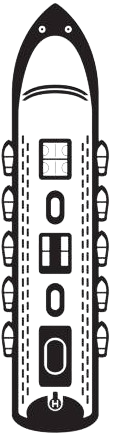
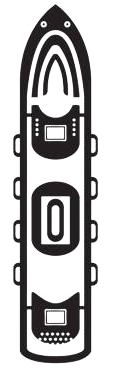
La till fler båtar

diff --git a/MainWindow.xaml.cs b/MainWindow.xaml.cs
@@ -37,7 +37,7 @@ namespace Battleships_WPF
 
         public static List<Coordinates> TakenCoordinates= new List<Coordinates>();
         public static List<Image> Images = new List<Image>();
-        public static string[] boatLibrary = new string[] { "BigBoat", "MediumBoat", "LittleBoat" };
+        public static string[] boatLibrary = new string[] { "HugeBoat", "BigBoat", "MediumBoat1", "MediumBoat2", "LittleBoat" };
         public static List<BoatTemplate> boatTemplates = new List<Classes.BoatTemplate>();
 
         //Preview Window variables
@@ -53,7 +53,7 @@ namespace Battleships_WPF
             Instance = this;
             PopulateBoatTemplates();
 
-            currentPreviewBoat = new Classes.Boat("BigBoat", 3);
+            currentPreviewBoat = new Classes.Boat(boatTemplates[0].boatName, boatTemplates[0].boatSize);
 
             LoadImages();   //Fill Images list with images, of the elements in Boat Library
 
@@ -84,7 +84,11 @@ namespace Battleships_WPF
             if (col == 8 && newboat.currentOrientation == "Horizontal")
             {
                 //Vart får den BoatSize ifrån?
-                if (newboat.BoatSize == 3)
+                if (newboat.BoatSize == 4)
+                {
+                    currentcol -= 3;
+                }
+                else if (newboat.BoatSize == 3)
                 {
                     currentcol -= 2;
                 }
@@ -93,13 +97,25 @@ namespace Battleships_WPF
                     currentcol -= 1;
                 }
             }
+            else if(col == 7 && newboat.BoatSize == 4 && newboat.currentOrientation == "Horizontal")
+            {
+                currentcol -= 2;
+            }
+            else if (col == 6 && newboat.BoatSize == 4 && newboat.currentOrientation == "Horizontal")
+            {
+                currentcol -= 1;
+            }
             else if (col == 7 && newboat.BoatSize == 3 && newboat.currentOrientation == "Horizontal")
             {
                 currentcol -= 1;
             }
             if (row == 8 && newboat.currentOrientation == "Vertical")
             {
-                if (newboat.BoatSize == 3)
+                if (newboat.BoatSize == 4)
+                {
+                    currentrow -= 3;
+                }
+                else if (newboat.BoatSize == 3)
                 {
                     currentrow -= 2;
                 }
@@ -107,6 +123,14 @@ namespace Battleships_WPF
                 {
                     currentrow -= 1;
                 }
+            }
+            else if (row == 7 && newboat.BoatSize == 4 && newboat.currentOrientation == "Vertical")
+            {
+                currentrow -= 2;
+            }
+            else if (row == 6 && newboat.BoatSize == 4 && newboat.currentOrientation == "Vertical")
+            {
+                currentrow -= 1;
             }
             else if (row == 7 && newboat.BoatSize == 3 && newboat.currentOrientation == "Vertical")
             {
@@ -253,11 +277,19 @@ namespace Battleships_WPF
             {
                 Classes.BoatTemplate boatTemplate = new Classes.BoatTemplate() { boatName = boatLibrary[i] };
 
-                if(boatTemplate.boatName == "BigBoat")
+                if(boatTemplate.boatName == "HugeBoat")
+                {
+                    boatTemplate.boatSize = 4;
+                }
+                else if (boatTemplate.boatName == "BigBoat")
                 {
                     boatTemplate.boatSize = 3;
                 }
-                else if (boatTemplate.boatName == "MediumBoat")
+                else if (boatTemplate.boatName == "MediumBoat1")
+                {
+                    boatTemplate.boatSize = 2;
+                }
+                else if (boatTemplate.boatName == "MediumBoat2")
                 {
                     boatTemplate.boatSize = 2;
                 }
@@ -629,12 +661,12 @@ namespace Battleships_WPF
             int BoatChecker = 0;
             foreach(UIElement element in watertiles.Children)
             {
-                if(element.Uid == "BigBoat" | element.Uid == "MediumBoat"| element.Uid == "LittleBoat")
+                if(element.Uid == "HugeBoat" | element.Uid == "BigBoat" | element.Uid == "MediumBoat1"| element.Uid == "MediumBoat2" | element.Uid == "LittleBoat")
                 {
                     BoatChecker += 1;
                 }
             }
-            if(BoatChecker != 3)
+            if(BoatChecker != 5)
             {
                 matchStart =false;
                 MousePositionText.Text = $"Place all your boats!\n You only have placed {BoatChecker} boats";

diff --git a/Classes.cs b/Classes.cs
@@ -241,8 +241,9 @@ namespace Battleships_WPF
                 }
             }
 
-            public void CreateBoatImage(Canvas canvas, int rotationValue = 0, string boatName = "BigBoat")
+            public void CreateBoatImage(Canvas canvas, int rotationValue = 0, string boatName = "HugeBoat")
             {
+                //boatName = MainWindow.Instance.currentPreviewBoat.boatName;
                 TransformedBitmap transformBmp = new TransformedBitmap();
                 BitmapImage bmpImage = new BitmapImage();
 
